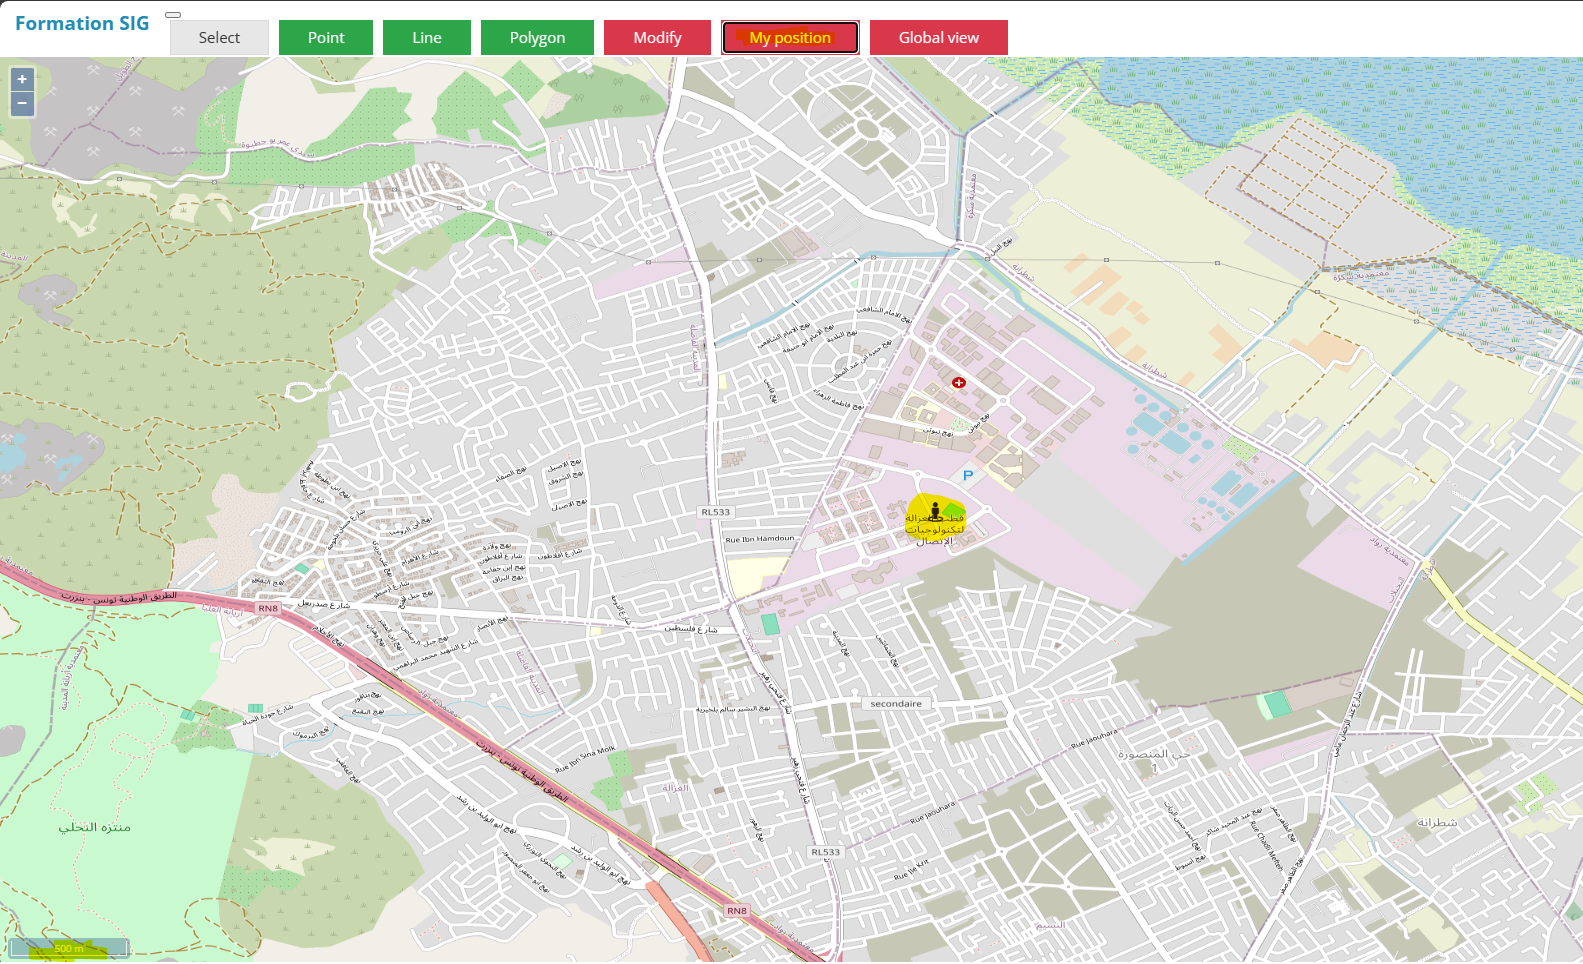
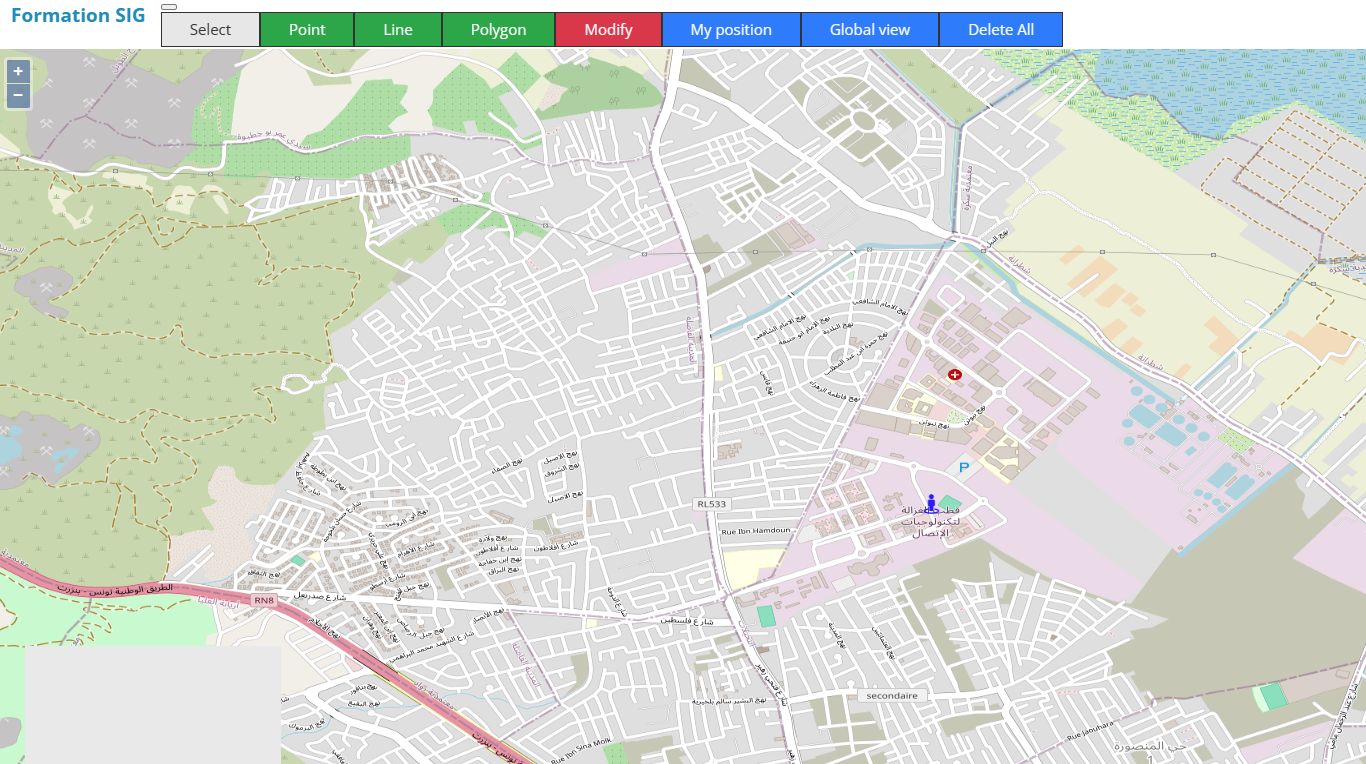
Fixing the frontend

diff --git a/client/osm_gs.html b/client/osm_gs.html
@@ -53,17 +53,17 @@
                       </button>
                   </li>
                   <li class="nav-item">
-                      <button id="point" type="button" class="btn btn-success">
+                      <button id="point green" type="button" class="btn btn-success">
                           <i class="bi bi-geo-alt"></i> Point
                       </button>
                   </li>
                   <li class="nav-item">
-                      <button id="line" type="button" class="btn btn-success">
+                      <button id="line green" type="button" class="btn btn-success">
                           <i class="bi bi-geo"></i> Line
                       </button>
                   </li>
                   <li class="nav-item">
-                      <button id="polygon" type="button" class="btn btn-success">
+                      <button id="polygon green" type="button" class="btn btn-success">
                           <i class="bi bi-vector-pen"></i> Polygon
                       </button>
                   </li>
@@ -73,17 +73,17 @@
                       </button>
                   </li>
                   <li class="nav-item">
-                      <button id="position" type="button" class="btn btn-danger">
+                      <button id="position" type="button" class="btn btn-primary">
                           <i class="bi bi-geo-alt"></i> My position
                       </button>
                   </li>
                   <li class="nav-item">
-                      <button id="global" type="button" class="btn btn-danger">
+                      <button id="global" type="button" class="btn btn-primary">
                           <i class="bi bi-globe"></i> Global view
                       </button>
                   </li>
                   <li class="nav-item">
-                    <button id="delete-all" type="button" class="btn btn-danger">
+                    <button id="delete-all" type="button" class="btn btn-primary">
                       Delete All
                     </button>
                 </li>

diff --git a/client/js/osm_gs.js b/client/js/osm_gs.js
@@ -150,8 +150,8 @@ var layersList = [
     visible: true,
     source: new ol.source.OSM(),
   }),
-  lyr_landuse,
   lyr_roads,
+  lyr_landuse,
   lyr_pois,
   lyr_places,
   lyr_adm1,

diff --git a/client/css/osm.css b/client/css/osm.css
@@ -25,7 +25,8 @@ nav.navbar {
   }
 
   nav.navbar .navbar-nav .nav-item .btn {
-    margin: 0 5px;
+    margin: 0;
+    border: 1px solid #333;
   }
 
   nav.navbar .btn-primary {
